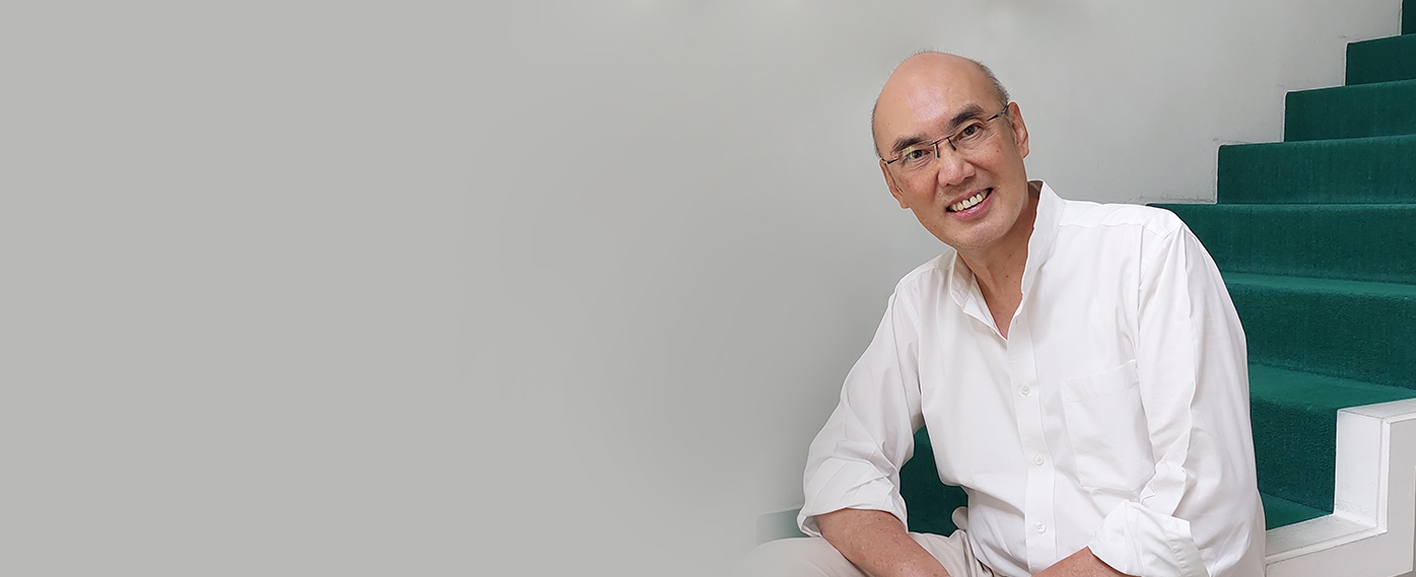
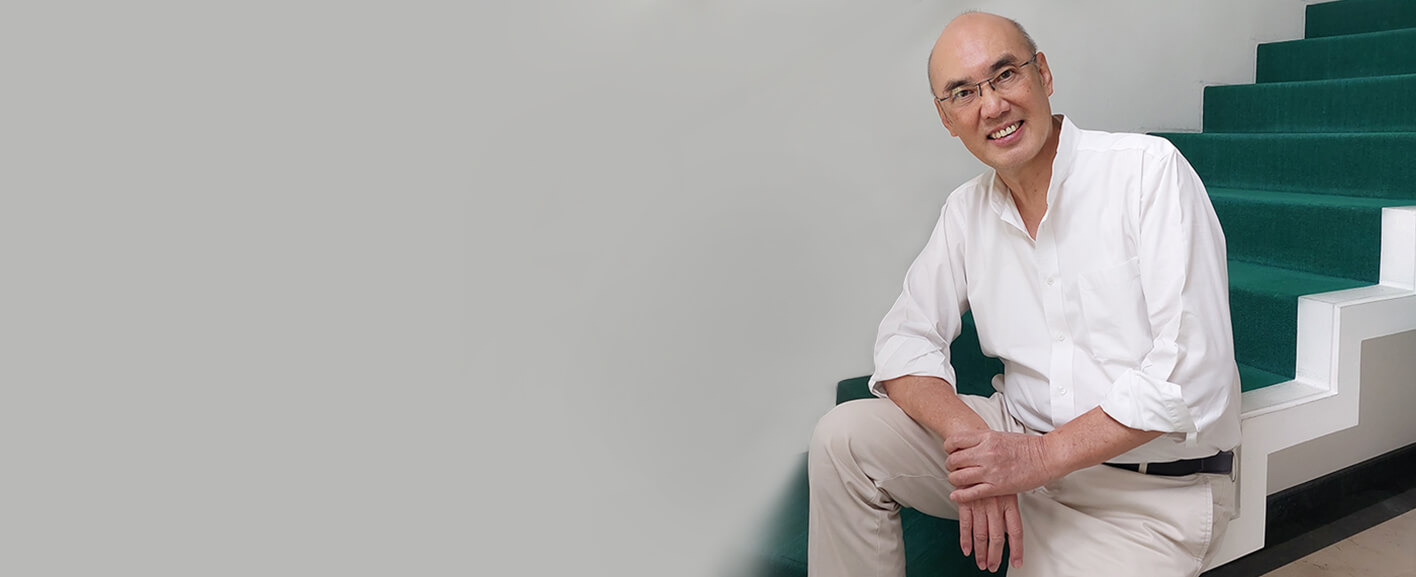
updates page about+servicesmobile

Changed region(s): [[0.4972, 0.0, 1.0, 1.0]]

diff --git a/our-services.html b/our-services.html
@@ -65,12 +65,12 @@
                                     <div id="collapseMenu1" class="collapse" aria-labelledby="headingOne"
                                         data-bs-parent="#accordionMenu">
                                         <ul class="sub-menu-child">
-                                            <li><a href="#strucutraal-design">Structural Design</a></li>
-                                            <li><a href="#strucutraal-assestment-retrofitting">Structural Assessment & Retrofitting Design</a></li>
-                                            <li><a href="#value-engineering">Value Engineering</a></li>
-                                            <li><a href="#structural-bim-detailing">Structural BIM & Detailing</a></li>
-                                            <li><a href="#site-supervision">Site Supervision</a></li>    
-                                            <li><a href="#concrete-technology-consulting">Concrete Technology Consulting</a></li>
+                                            <li><a class="strucutraal-design" href="#strucutraal-design">Structural Design</a></li>
+                                            <li><a class="strucutraal-assestment-retrofitting" href="#strucutraal-assestment-retrofitting">Structural Assessment & Retrofitting Design</a></li>
+                                            <li><a class="value-engineering" href="#value-engineering">Value Engineering</a></li>
+                                            <li><a class="structural-bim-detailing" href="#structural-bim-detailing">Structural BIM & Detailing</a></li>
+                                            <li><a class="site-supervision" href="#site-supervision">Site Supervision</a></li>    
+                                            <li><a class="concrete-technology-consulting" href="#concrete-technology-consulting">Concrete Technology Consulting</a></li>
                                         </ul>
                                     </div>
                                     <a class="menu-head-accordions has-submenu-child" data-bs-toggle="collapse"
@@ -273,7 +273,7 @@
 
                 <section class="section-about-people" data-bs-spy="scroll" data-bs-target="#navbar-campaign"
                 data-bs-root-margin="560px 0px 0px 0px" data-bs-smooth-scroll="true" tabindex="0" data-bs-offset="560" >
-                    <div class="container centered-container">
+                    <div class="container centered-container our-services-contents">
                         <div class="title-section-page">
                             <h1>Our Services</h1>
                         </div>
@@ -702,6 +702,103 @@
 
     // SCROLLING DOWN START
 
+    $(".strucutraal-design").click(function (e) {
+      e.preventDefault();
+      if ($('.wrp-mobile-item').hasClass("active")) {
+        $('.wrp-mobile-item').removeClass('active');
+        $('.navbar-mobile').removeClass('active');
+        $('.dropdown-burger').removeClass('is-active');
+        $('.menu-head-accordions').removeClass('collapsed');
+        $(document.body).removeClass("unscrolled");
+      } else {
+        $(document.body).addClass("unscrolled");
+        $('.dropdown-burger').removeClass('is-active');
+      }
+    });
+    
+    $(".strucutraal-assestment-retrofitting").click(function (e) {
+      e.preventDefault();
+      if ($('.wrp-mobile-item').hasClass("active")) {
+        $('.wrp-mobile-item').removeClass('active');
+        $('.navbar-mobile').removeClass('active');
+        $('.dropdown-burger').removeClass('is-active');
+        $('.menu-head-accordions').removeClass('collapsed');
+        $(document.body).removeClass("unscrolled");
+      } else {
+        $(document.body).addClass("unscrolled");
+        $('.dropdown-burger').removeClass('is-active');
+      }
+    });
+
+    $(".value-engineering").click(function (e) {
+      e.preventDefault();
+      if ($('.wrp-mobile-item').hasClass("active")) {
+        $('.wrp-mobile-item').removeClass('active');
+        $('.navbar-mobile').removeClass('active');
+        $('.dropdown-burger').removeClass('is-active');
+        $('.menu-head-accordions').removeClass('collapsed');
+        $(document.body).removeClass("unscrolled");
+      } else {
+        $(document.body).addClass("unscrolled");
+        $('.dropdown-burger').removeClass('is-active');
+      }
+    });
+
+    $(".structural-bim-detailing").click(function (e) {
+      e.preventDefault();
+      if ($('.wrp-mobile-item').hasClass("active")) {
+        $('.wrp-mobile-item').removeClass('active');
+        $('.navbar-mobile').removeClass('active');
+        $('.dropdown-burger').removeClass('is-active');
+        $('.menu-head-accordions').removeClass('collapsed');
+        $(document.body).removeClass("unscrolled");
+      } else {
+        $(document.body).addClass("unscrolled");
+        $('.dropdown-burger').removeClass('is-active');
+      }
+    });
+    
+    $(".site-supervision").click(function (e) {
+      e.preventDefault();
+      if ($('.wrp-mobile-item').hasClass("active")) {
+        $('.wrp-mobile-item').removeClass('active');
+        $('.navbar-mobile').removeClass('active');
+        $('.dropdown-burger').removeClass('is-active');
+        $('.menu-head-accordions').removeClass('collapsed');
+        $(document.body).removeClass("unscrolled");
+      } else {
+        $(document.body).addClass("unscrolled");
+        $('.dropdown-burger').removeClass('is-active');
+      }
+    });
+    
+    $(".concrete-technology-consulting").click(function (e) {
+      e.preventDefault();
+      if ($('.wrp-mobile-item').hasClass("active")) {
+        $('.wrp-mobile-item').removeClass('active');
+        $('.navbar-mobile').removeClass('active');
+        $('.dropdown-burger').removeClass('is-active');
+        $('.menu-head-accordions').removeClass('collapsed');
+        $(document.body).removeClass("unscrolled");
+      } else {
+        $(document.body).addClass("unscrolled");
+        $('.dropdown-burger').removeClass('is-active');
+      }
+    });
+    
+    $(".strucutraal-assestment-retrofitting").click(function (e) {
+      e.preventDefault();
+      if ($('.wrp-mobile-item').hasClass("active")) {
+        $('.wrp-mobile-item').removeClass('active');
+        $('.navbar-mobile').removeClass('active');
+        $('.dropdown-burger').removeClass('is-active');
+        $('.menu-head-accordions').removeClass('collapsed');
+        $(document.body).removeClass("unscrolled");
+      } else {
+        $(document.body).addClass("unscrolled");
+        $('.dropdown-burger').removeClass('is-active');
+      }
+    });    
 
     </script>
 </body>

diff --git a/index.html b/index.html
@@ -891,7 +891,7 @@
                                     </div>
                                     <div class="card-services-images">
                                         <figure data-aspect-ratio="1:1">
-                                            <img src="assets/images/card-image-services-home-structural-design.jpg" alt="Structural Design">
+                                            <img src="assets/images/card-image-services-home-structural-design.jpg" alt="Structural Design Suradjin Sutjipto, INC">
                                         </figure>
                                     </div>
                                 </a>
@@ -947,7 +947,7 @@
                         </div>
                         <div class="card-services-images">
                             <figure data-aspect-ratio="1:1">
-                                <img src="assets/images/card-image-services-home-site-supervision.jpg" alt="Concrete Technology Consulting">
+                                <img src="assets/images/card-image-services-home-site-supervision.jpg" alt="Site Supervision Suradjin Sutjipto, INC">
                             </figure>
                         </div>
                     </div>
@@ -972,7 +972,7 @@
                         </div>
                         <div class="card-services-images">
                             <figure data-aspect-ratio="1:1">
-                                <img src="assets/images/card-image-services-home-structural-BIM-Detailing.jpg" alt="Concrete Technology Consulting">
+                                <img src="assets/images/card-image-services-home-structural-BIM-Detailing.jpg" alt="Structural BIM & Detailing Suradjin Sutjipto, INC">
                             </figure>
                         </div>
                     </div>
@@ -998,12 +998,66 @@
                         </div>
                         <div class="card-services-images">
                             <figure data-aspect-ratio="1:1">
-                                <img src="assets/images/card-image-services-home-value-engineering.jpg" alt="Value Engineering">
+                                <img src="assets/images/card-image-services-home-value-engineering.jpg" alt="Value Engineering Suradjin Sutjipto, INC">
                             </figure>
                         </div>
                     </div>
                 </div>
             </div>
+
+            <div class="accordion-item">
+                <div class="accordion-header">
+                    <a class="accordion-button accordion-pluss collapsed" type="button" data-bs-toggle="collapse"
+                        data-bs-target="#collapseFiveth" aria-expanded="false" aria-controls="collapseFiveth">
+                        <div class="tabultaion-with-icon">
+                            <div class="tabulation-title">
+                                <h3>Structural Assessment & Retrofitting Design</h3>
+                            </div>
+                        </div>
+                    </a>
+                </div>
+                <div id="collapseFiveth" class="accordion-collapse collapse"
+                    data-bs-parent="#accordionCatalog">
+                    <div class="accordion-body accordion-body-catalog">
+                        <div class="card-services-desc">
+                            <p>Post-earthquake Assessments, detailed evaluations in line with ASCE 41 guidelines, and Comprehensive Assessments for resilience and seismic robustness, ensuring SLF compliance and meeting regulatory standards.</p>
+                        </div>
+                        <div class="card-services-images">
+                            <figure data-aspect-ratio="1:1">
+                                <img src="assets/images/card-image-services-home-structural-assessment-retrofitting-design.jpg" alt="Structural Assessment & Retrofitting Design Suradjin Sutjipto, INC">
+                            </figure>
+                        </div>
+                    </div>
+                </div>
+            </div>
+
+            <div class="accordion-item">
+                <div class="accordion-header">
+                    <a class="accordion-button accordion-pluss collapsed" type="button" data-bs-toggle="collapse"
+                        data-bs-target="#collapsesixth" aria-expanded="false" aria-controls="collapsesixth">
+                        <div class="tabultaion-with-icon">
+                            <div class="tabulation-title">
+                                <h3>Structural Design</h3>
+                            </div>
+                        </div>
+                    </a>
+                </div>
+                <div id="collapsesixth" class="accordion-collapse collapse"
+                    data-bs-parent="#accordionCatalog">
+                    <div class="accordion-body accordion-body-catalog">
+                        <div class="card-services-desc">
+                            <p>Comprehensive structural design solutions, including Code-Based Design, Performance-Based Design with advanced modeling, and independent Design Peer Reviews, ensuring compliance, efficiency, and tailored structural responses.</p>
+                        </div>
+                        <div class="card-services-images">
+                            <figure data-aspect-ratio="1:1">
+                                <img src="assets/images/card-image-services-home-structural-design.jpg" alt="Structural Design Suradjin Sutjipto, INC">
+                            </figure>
+                        </div>
+                    </div>
+                </div>
+            </div>
+
+
         </div>
     </div>    
 </div>

diff --git a/assets/css/style.css b/assets/css/style.css
@@ -5770,7 +5770,7 @@ transition-duration: 0.5s;
 	height: 12px;
 	width: 100%;
 	z-index: 1;
-	top: -94px;		
+	top: -104px;		
 }
 
 .form-contact-us .wrp-submit-cv{
@@ -6122,6 +6122,10 @@ transition-duration: 0.5s;
 
 .title-services-list{
 	width: 100%;
+}
+
+.our-services-contents{
+	cursor: auto;
 }
 
 .title-services-list h2{
@@ -7164,6 +7168,46 @@ transition-duration: 0.5s;
 		max-width: 105%;
 	}
 
+	#value-engineering {
+		position: absolute;
+		background: transparent none;
+		/* background: #cf0000; */
+		height: 12px;
+		width: 100%;
+		z-index: 1;
+		top: -174px;
+	}
+
+
+	#structural-bim-detailing {
+		position: absolute;
+		background: transparent none;
+		/* background: #cf0000; */
+		height: 15px;
+		width: 100%;
+		z-index: 1;
+		top: -176px;
+	}
+
+	#site-supervision {
+		position: absolute;
+		background: transparent none;
+		/* background: #cf0000; */
+		height: 12px;
+		width: 100%;
+		z-index: 1;
+		top: -250px;
+	}
+
+	#concrete-technology-consulting {
+		position: absolute;
+		background: transparent none;
+		/* background: #cf0000; */
+		height: 12px;
+		width: 100%;
+		z-index: 1;
+		top: -219px;
+	}
 
 	.section-home-services {
 		padding: 56px 0px 60px 0px;
@@ -8619,6 +8663,56 @@ transition-duration: 0.5s;
 }
 
 /* ACCORDION SERVICES HOME END */
+
+
+/* SERVICE 480 START */
+
+.our-services-contents .row:nth-child(1) .col-sm-7{
+	order: 2;
+}
+
+.our-services-contents .row:nth-child(1) .col-md-5.col-12{
+	order: 2;
+}
+
+.our-services-contents .row:nth-child(2) .col-sm-7.col-12{
+	order: 1;
+}
+
+.our-services-contents .row:nth-child(2) .col-md-5.col-12{
+	order: 1;
+}
+
+.our-services-contents .row:nth-child(3) .col-sm-7.col-12{
+	order: 1;
+	/* background: #cf0000; */
+}
+
+.our-services-contents .row:nth-child(3) .col-md-5.col-12{
+	order: 2;
+}
+
+.our-services-contents .row:nth-child(5) .col-sm-7.col-12{
+	order: 1;
+	/* background: #cf0000; */
+}
+
+.our-services-contents .row:nth-child(5) .col-md-5.col-12{
+	order: 2;
+}
+
+.our-services-contents .row:nth-child(7) .col-sm-7.col-12{
+	order: 1;
+	/* background: #cf0000; */
+}
+
+.our-services-contents .row:nth-child(7) .col-md-5.col-12{
+	order: 2;
+}
+.wrp-services-list {
+	margin-bottom: 20px;
+}
+/* SERVICES 480 END */
 
 /* DIALOG MODAL PEOPLE 480 START*/
 .row-modal-people {
